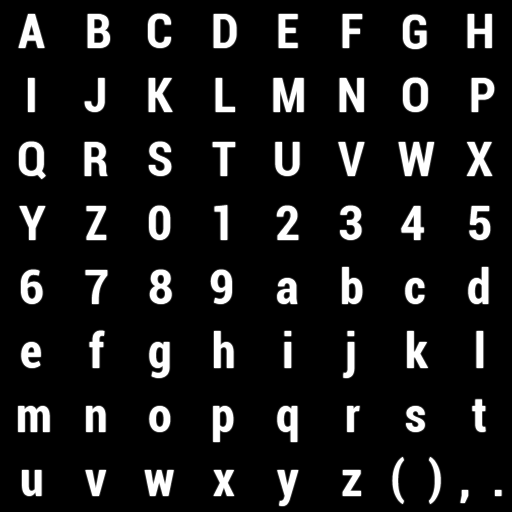
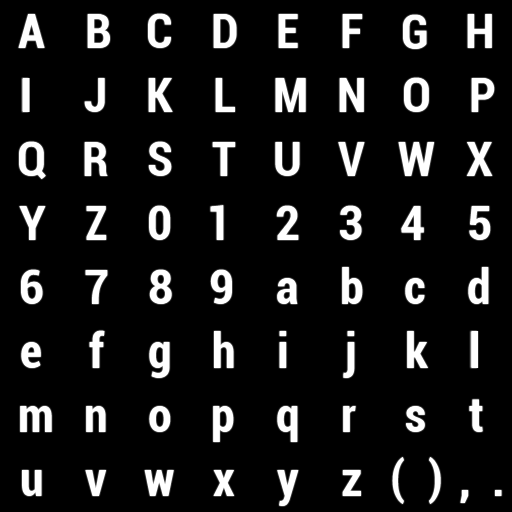
Dynamic lighting implemented.. needs optimizing later though

diff --git a/tileboard.cpp b/tileboard.cpp
@@ -27,12 +27,17 @@ Tile::Tile(VertexBuffer* vb, int x, int y)
 
 void Tile::SetAmbient(const glm::vec3 &col)
 {
-	ambient_colour = col;
+	ambient_colour = colour = col;
 }
 
-void Tile::UpdateAmbient()
+void Tile::SetDynamic(const glm::vec3 &col)
 {
-	UpdateColour(ambient_colour);
+	colour += col;
+}
+
+void Tile::Update()
+{
+	UpdateColour(colour);
 }
 
 void Tile::UpdateColour(const glm::vec3 &col)
@@ -128,7 +133,7 @@ void TileBoard::Update()
 	{
 		for (auto cell : row)
 		{
-			cell->UpdateAmbient();
+			cell->Update();
 		}
 	}
 
@@ -136,19 +141,53 @@ void TileBoard::Update()
 }
 
 
-Tile * TileBoard::FindNearest(glm::vec2 cursor)
+Tile * TileBoard::FindNearest(const glm::vec2 &cursor)
 {
-	int x = cursor.x;
-	int y = cursor.y;
+	int x = roundf(cursor.x);
+	int y = roundf(cursor.y);
 
 	if (x < 0 or x >= mapsizex) return nullptr;
 	if (y < 0 or y >= mapsizey) return nullptr;
 
-	LOGf("Finding map tile %d, %d", x, y);
+	//LOGf("Finding map tile %d, %d", x, y);
+
 	Tile *t = map[y][x];
 
 	return t;
 }
 
+void TileBoard::DynamicLight(const glm::vec2 &position, const glm::vec3 colour, float radius)
+{
+	float maxb = 0.0f, minb = 1.0f;
 
+	for (int ix = 0;  ix < mapsizex;  ++ix)
+	{
+		float x = ix;
+
+		for (int iy = 0; iy < mapsizey; ++iy)
+		{
+			float y = iy;
+			glm::vec2 current(x,y);
+
+			Tile *t = map[y][x];
+
+			float distance = glm::distance(position, glm::vec2(x,y));
+
+			if (distance > radius) continue;
+
+			float brightness = 1.0f - (distance / radius);  //brightness scale from 1 -> 0
+
+			glm::vec3 falloffcol = colour * brightness;
+
+			t->SetDynamic(falloffcol);
+			t->Update();
+
+			maxb = glm::max(maxb, brightness);
+			minb = glm::min(minb, brightness);
+
+		}
+	}
+
+	LOGf("min brigtness %.2f   max brightness %.2f", minb, maxb);
+}
 

diff --git a/font.cpp b/font.cpp
@@ -40,12 +40,12 @@ Primitive* Font::CreateGlyph(char ch, int xoff, int yoff, int xgrid, int ygrid)
 
 	//adjust advance width  (still needs work but its close enough)
 	float aw = 0.8f;
-	if (std::string(",.").find(ch) != std::string::npos) aw = 0.5f;
+	//if (std::string(",.").find(ch) != std::string::npos) aw = 0.5f;
 	if (std::string("abh").find(ch) != std::string::npos) aw = 0.8f;
-	if (std::string("IJZEi1()").find(ch) != std::string::npos) aw = 0.7f;
+	if (std::string("IJZE1()").find(ch) != std::string::npos) aw = 0.7f;
 	if (std::string("tpfr").find(ch) != std::string::npos) aw = 0.6f;
-	if (std::string("lj").find(ch) != std::string::npos) aw = 0.6f;
-	if (std::string("WMwm").find(ch) != std::string::npos) aw = 1.0f;
+	if (std::string("lji").find(ch) != std::string::npos) aw = 0.6f;
+	if (std::string(",.WMwm").find(ch) != std::string::npos) aw = 1.0f;
 
 	advancewidth[ch] = aw;
 	return glyph;
@@ -102,7 +102,7 @@ void Font::Draw(char ch)
 {
 	if (glyphs.count(ch) == 0)
 	{
-		if (ch != ' ') LOGf("GLYPH '%c' not in font", ch);
+		if (ch != ' ' and ch != '-') LOGf("GLYPH '%c' not in font", ch);
 		return;
 	}
 

diff --git a/app.cpp b/app.cpp
@@ -15,6 +15,9 @@
 
 #include "tileboard.h"
 
+#include <sstream>
+#include <iomanip>
+
 #include <math.h>
 #include <gtc/matrix_transform.hpp>
 
@@ -57,8 +60,10 @@ void App::Update(float dt)
 
 	gamemap.SetAmbient(ambientcolour);
 
-	Tile *ht = gamemap.FindNearest(hover);
-	if (ht) { ht->SetAmbient(ambientcolour * 2.0f); }
+	//Tile *ht = gamemap.FindNearest(hover);
+	//if (ht) { ht->SetAmbient(ambientcolour * 2.0f); }
+
+	gamemap.DynamicLight(hover, glm::vec3(5.0f, 5.0f, 4.5f), 5.0f);
 
 	gamemap.Update();
 
@@ -93,7 +98,11 @@ void App::Render()
 
 	font.Draw(ortho, 220, 25, 30, "(Evolution)");
 
-	font.Draw(ortho, 10, 470, 12, "This is some status line text.");
+	std::stringstream cursorpos;
+	cursorpos << std::setprecision(1) << std::fixed;  //this is a lot of code to replace %.2f
+	cursorpos << "("<<hover.x<<","<<hover.y<<")";
+
+	font.Draw(ortho, 10, 470, 12, "This is some status line text.  42  "+cursorpos.str());
 
 //	char ch = '0';
 //	for (int y = 10;  ch <= '9'; y+= 30, ch++)

diff --git a/tileboard.h b/tileboard.h
@@ -17,15 +17,17 @@
 
 class Tile : public Primitive
 {
+	glm::vec3 colour;
 	glm::vec3 ambient_colour;
 
 public:
 
 	Tile(VertexBuffer* vb, int x, int y);
 
+	void SetDynamic(const glm::vec3 &col);
 	void SetAmbient(const glm::vec3 &col);
-	void UpdateAmbient();
 
+	void Update();
 	void UpdateColour(const glm::vec3 &col);
 
 };
@@ -55,8 +57,10 @@ public:
 	void SetAmbient(glm::vec3 col);
 	void Update();
 
-	Tile * FindNearest(glm::vec2 cursor);
+	Tile * FindNearest(const glm::vec2 &cursor);  //find nearest tile from world coordinates cursor
 
+
+	void DynamicLight(const glm::vec2 &position, const glm::vec3 colour, float radius);
 };
 
 

diff --git a/main.cpp b/main.cpp
@@ -74,11 +74,11 @@ int run(int argc, char *argv[])
 					break;
 
 					case SDL_KEYDOWN:
-						theapp.OnKeyDown(event.key.keysym);
+						theapp.OnKeyDown((SDL_Keysym)event.key.keysym);
 					break;
 
 					case SDL_KEYUP:
-						theapp.OnKeyUp(event.key.keysym);
+						theapp.OnKeyUp((SDL_Keysym)event.key.keysym);
 					break;
 				}
 			}
